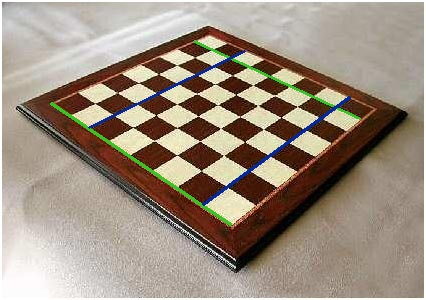
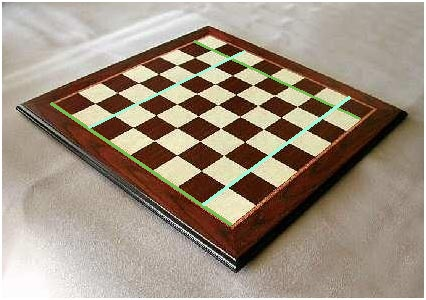
Update

diff --git a/q2.py b/q2.py
@@ -32,9 +32,8 @@ def calc_similarity_H(pts, overlay_img, output_path, colors):
     s = Vh[np.argmin(S)]
     s_mat = np.array([
         [s[0], s[1]],
-        [s[1], s[2]]
+        [s[1], 1]
     ])
-    s_mat /= s_mat[-1, -1]
 
     # Find H
     U, S, Vh = np.linalg.svd(s_mat)
@@ -47,7 +46,7 @@ if __name__ == "__main__":
 
     # Create argument parser
     parser = argparse.ArgumentParser("GeoViz A1:Q1 Driver", None, "")
-    parser.add_argument("-i", "--img_file", default="data/q1/facade.jpg")
+    parser.add_argument("-i", "--img_file", default="data/q1/chess1.jpg")
     parser.add_argument("-a2", "--annotation_file", default="data/annotation/q2_annotation.npy")
     parser.add_argument("-o", "--output_dir", default="output")
     args = parser.parse_args()
